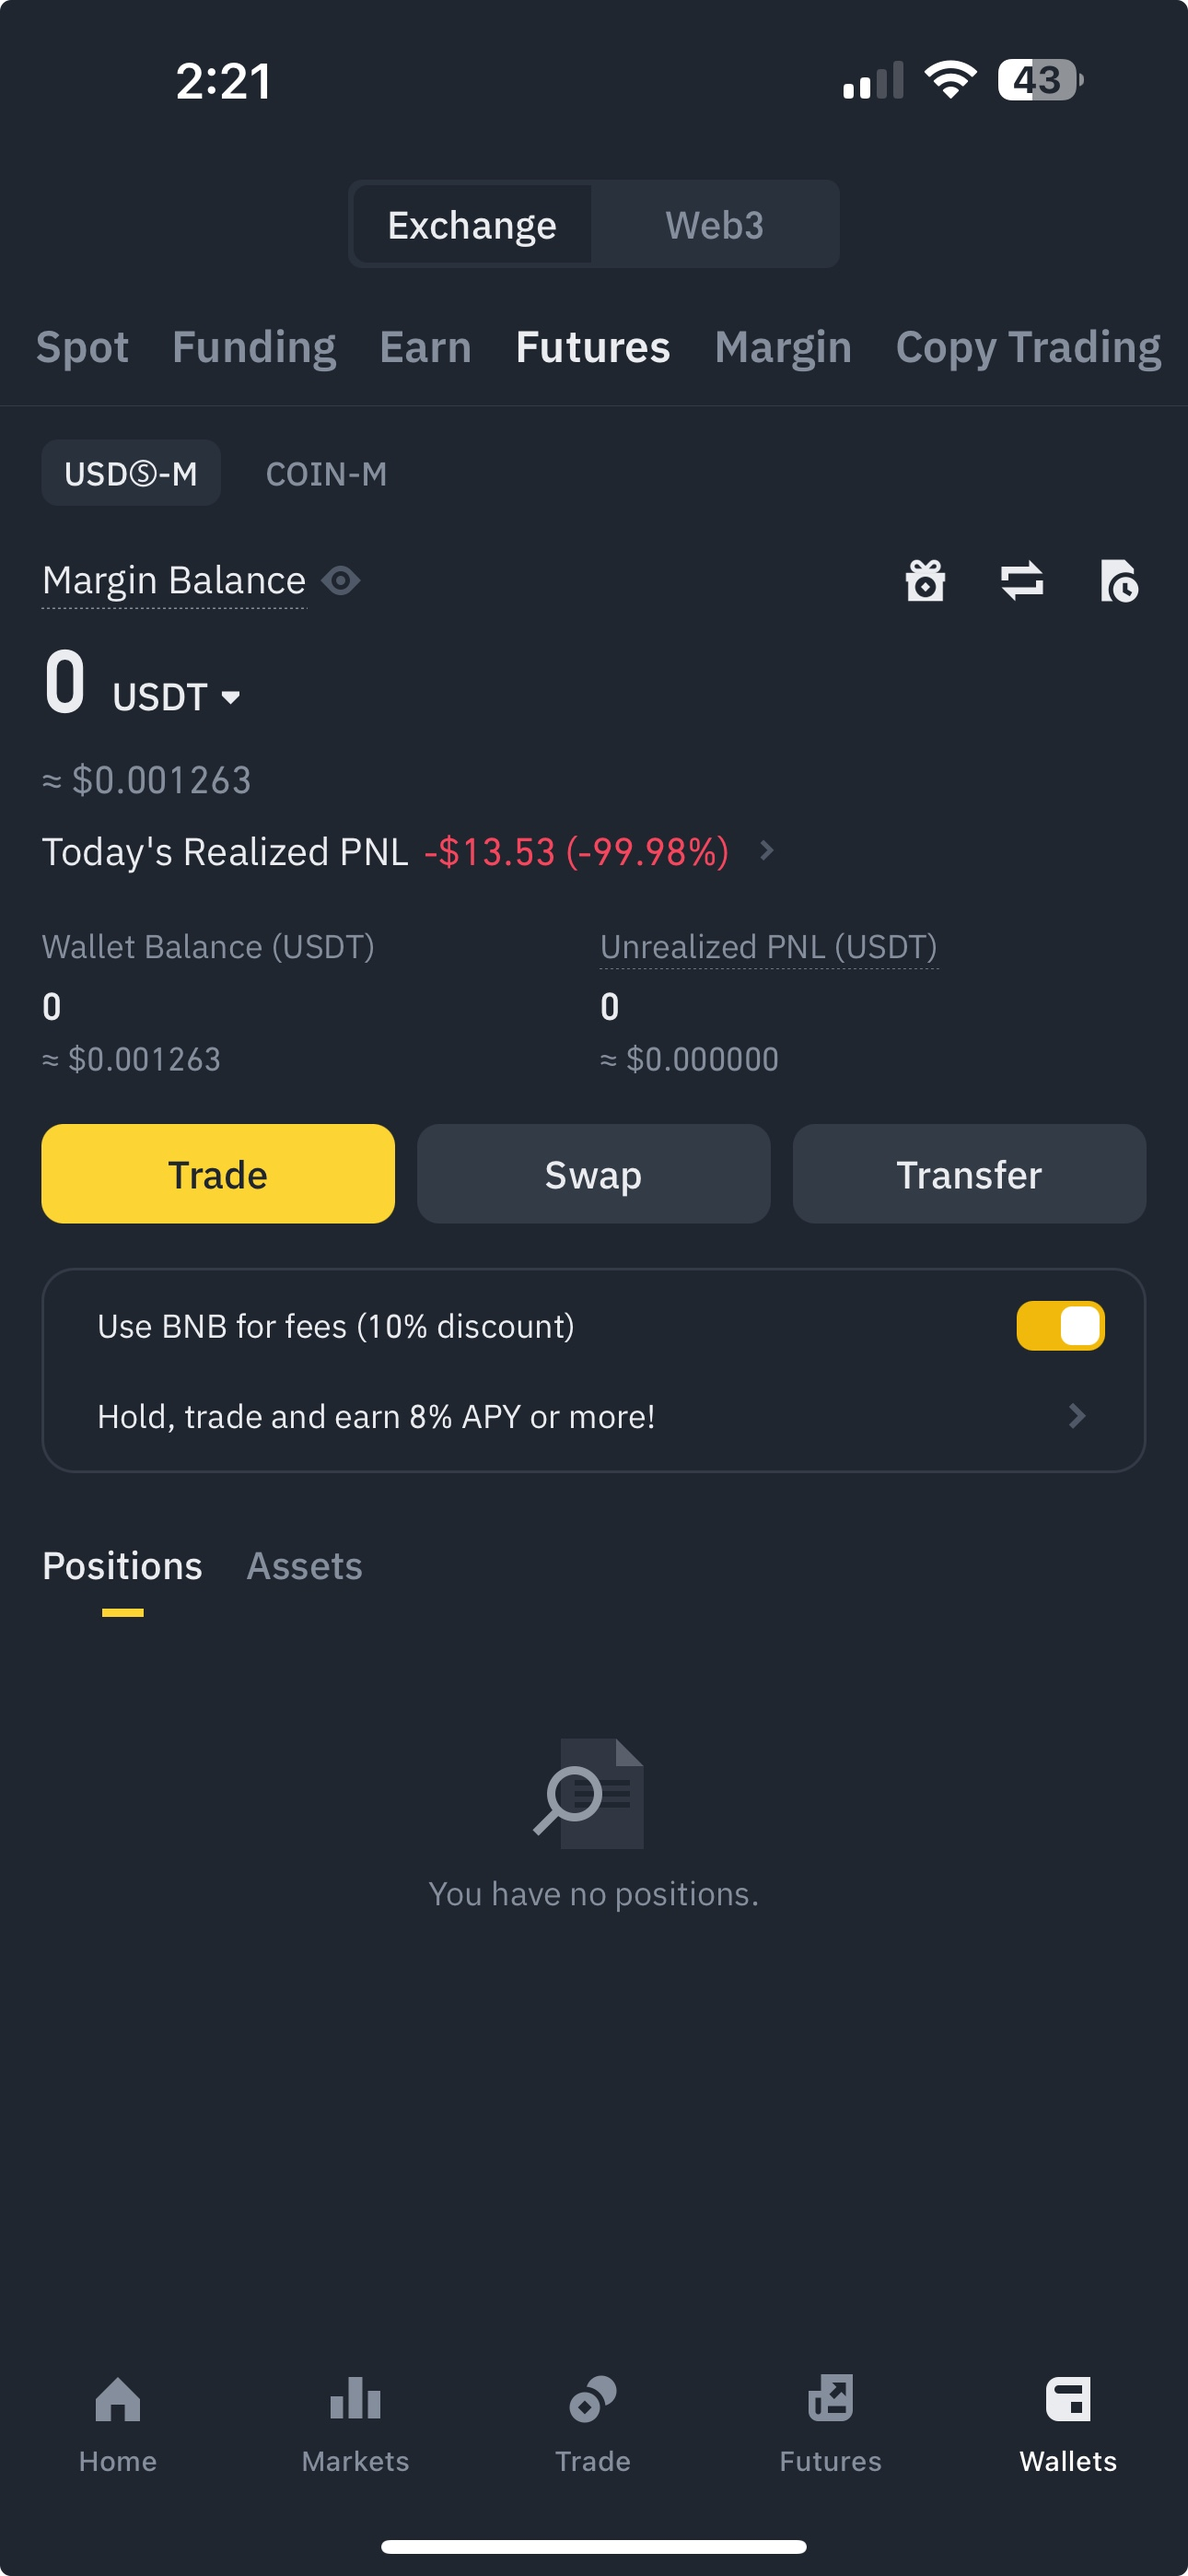
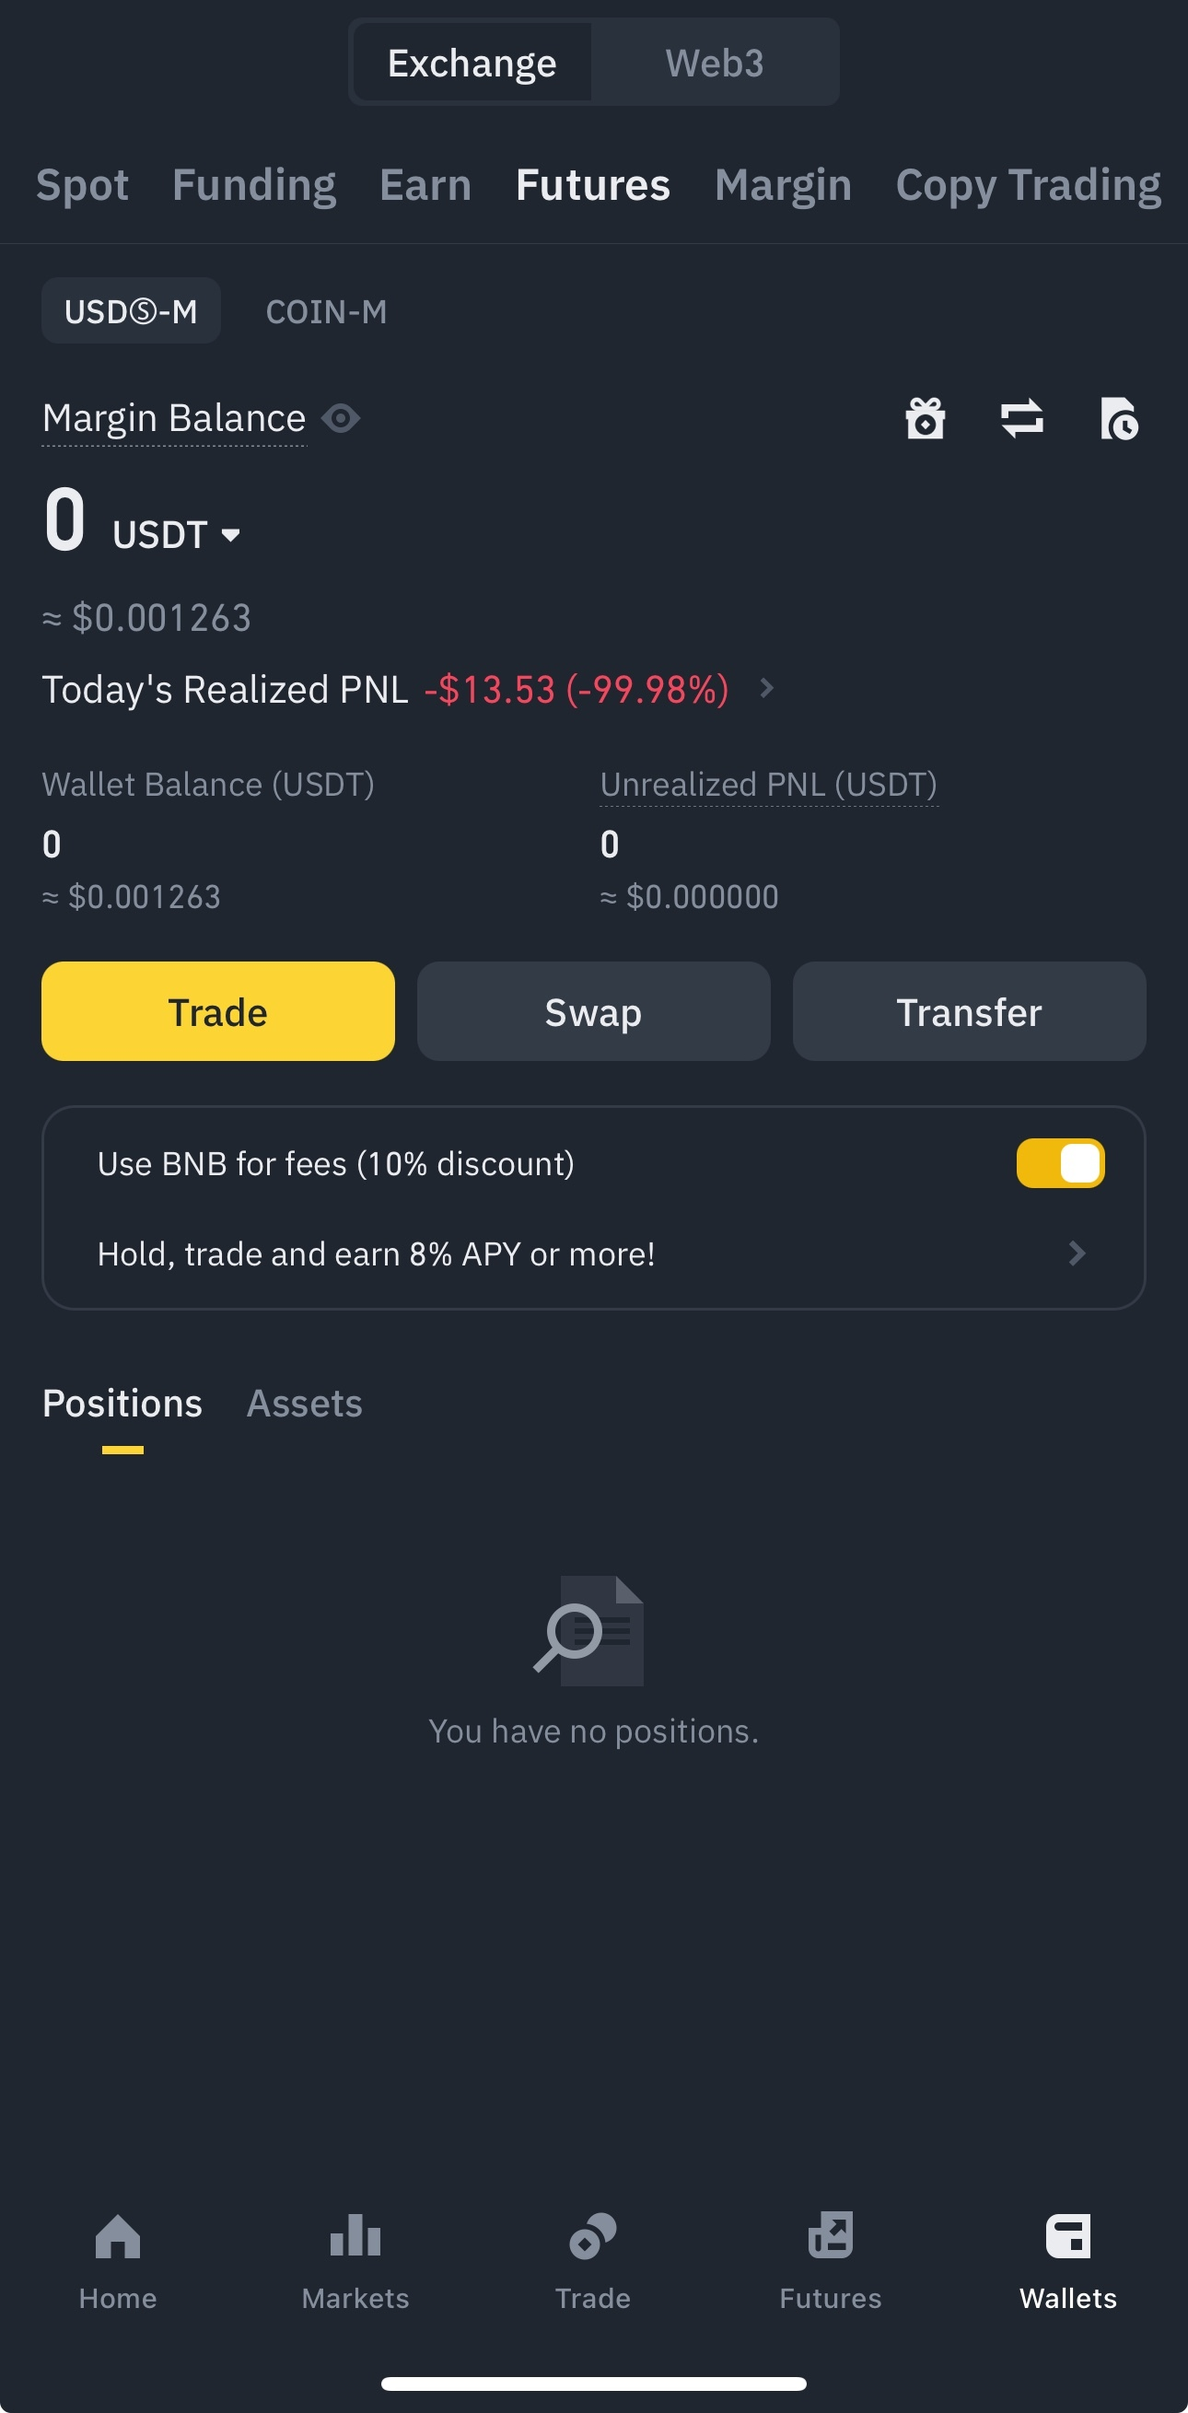
Fix img upper clock

diff --git a/index.html b/index.html
@@ -1,3 +1,6 @@
 <body>
-cdkh v1
+<h1>cdkh v.2024-12-06</h1>
+
 </body>
+
+<!-- 430 x 932 - 176 = 756 -->
